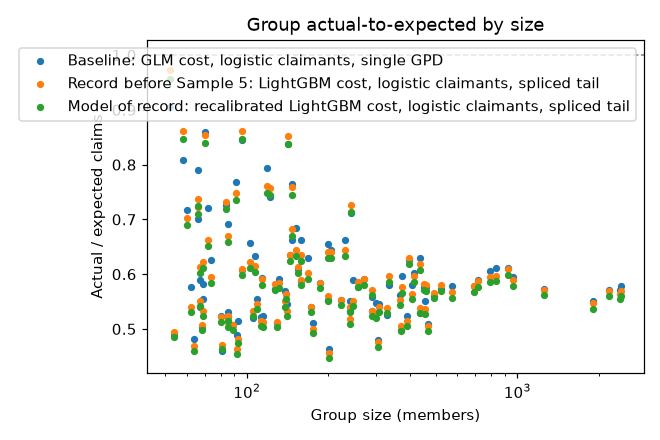
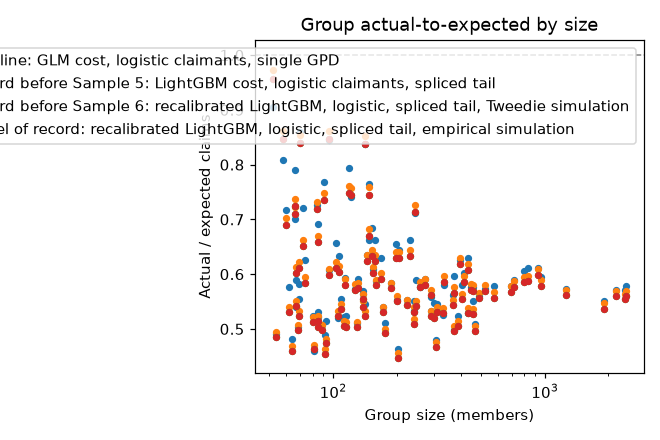
Score the aggregate test and update results, README and blog

diff --git a/docs/blog/posts/group-underwriting.md b/docs/blog/posts/group-underwriting.md
@@ -6,7 +6,7 @@ authors:
 categories:
   - Healthcare
   - Insurance pricing
-description: Pricing stop-loss for employer groups from member-level claims, tested on four independent synthetic Medicare populations against predictions written down first.
+description: Pricing stop-loss for employer groups from member-level claims, tested on five independent synthetic Medicare populations against predictions written down first.
 ---
 
 # Pricing stop-loss for employer groups from claims data
@@ -19,17 +19,17 @@ that cost sits in the tail?
 
 I built a pipeline that answers both from member-level medical and pharmacy claims, prices
 synthetic employer groups, and then checks the price against what the groups cost the
-following year. The first test missed on price level; three more rounds on new populations found
+following year. The first test missed on price level; four more rounds on new populations found
 why and settled the model of record.
 
 <!-- more -->
 
 !!! abstract "TL;DR"
-    - **Data:** CMS DE-SynPUF synthetic Medicare claims (inpatient, outpatient, professional and Part D), 2008–2010, four independent samples (Samples 2–5), cut into synthetic employer groups of 50–2,500 lives.
+    - **Data:** CMS DE-SynPUF synthetic Medicare claims (inpatient, outpatient, professional and Part D), 2008–2010, five independent samples (Samples 2–6), cut into synthetic employer groups of 50–2,500 lives.
     - **Method:** point-in-time features with claims runout, a Tweedie GLM baseline against Tweedie LightGBM for next-year cost, high-cost-claimant probabilities at $25k / $50k / $100k, a generalized Pareto tail, and Monte Carlo pricing of specific and aggregate stop-loss per group.
     - **Result:** on populations no model had seen, group claims came in at **0.995–1.00 of expected** across ~205 groups per sample. The final configuration hit **0.999 [0.990–1.007]** on the last holdout.
     - **What the first test got wrong:** the out-of-time year (2010) came in at 0.58 of expected because DE-SynPUF's 2010 claims are 36% thinner than 2009's, a data artifact no pricing method could foresee.
-    - **What changed along the way:** LightGBM replaced the GLM only after its gain replicated on a second unseen sample; a second Pareto segment above $100k fixed a 30% overstatement of far-tail losses; one level factor fixed LightGBM's 2% low bias.
+    - **What changed along the way:** LightGBM replaced the GLM only after its gain replicated on a second unseen sample; a second Pareto segment above $100k fixed a 30% overstatement of far-tail losses; one level factor fixed LightGBM's 2% low bias; resampling actual-to-predicted ratios fixed a simulated spread of group totals that was 1.3× too wide and had the aggregate layer priced 4.5× too high.
     - **Stack:** Python, Kedro, LightGBM, DuckDB and Snowflake, dbt (reconciled row for row with the Python features), MLflow, uv. Code: [github.com/RonCom/group-underwriting](https://github.com/RonCom/group-underwriting).
 
 !!! warning "Synthetic Medicare data, synthetic employers"
@@ -84,7 +84,7 @@ metrics and **groups** for group metrics, never rows.
 
 The same rule as in my [Medicare provider project](medicare-fwa.md): before each test, I committed
 predictions and adoption rules to the repository. A challenger replaces the frozen baseline only if
-its gain clears zero; every miss gets reported. Four rounds, four pre-registrations:
+its gain clears zero; every miss gets reported. Five rounds, five pre-registrations:
 
 | Round | Data | Predictions hit |
 |---|---|---|
@@ -92,6 +92,7 @@ its gain clears zero; every miss gets reported. Four rounds, four pre-registrati
 | 2. Follow-up | Sample 3 (new members), 2008 → 2009 | 10 of 12 |
 | 3. Re-test | Sample 4, 2008 → 2009 | 8 of 9 |
 | 4. Holdout | Sample 5, 2008 → 2009 | 6 of 7 |
+| 5. Aggregate layer | Sample 6, 2008 → 2009 | 5 of 5 |
 
 ## Round 1: ranking works, level misses
 
@@ -167,6 +168,30 @@ Pareto tail.
 The one miss: groups of 250–499 lives came in 2% below expected with every configuration. I
 don't know why yet.
 
+## Round 5: the aggregate layer
+
+Aggregate attachments were breached at or below the expected rate on Samples 3, 4 and 5 (pooled:
+4 observed against 7.6 expected). Breaches are too rare to test directly, so I tested the whole
+simulated distribution of each group's net claims instead. For each group, the PIT value is the
+share of its simulated net claims below its actual net claims. If the simulation has the right
+spread, PIT values are uniform across groups, with variance 1/12 = 0.083; a spread that's too wide
+pushes them toward 0.5 and the variance down.
+
+The Tweedie simulation gave PIT variances of 0.058–0.066 on the three seen samples: its spread was
+about 1.3× too wide, because its dispersion came from uncapped costs. The challenger draws each
+member's cost as predicted cost × an actual-to-predicted ratio resampled from already-seen members
+in the same tenth of predicted cost. I wrote down five predictions and ran both on Sample 6
+(72,216 new members, 206 groups):
+
+| Member-cost simulation | PIT variance | Mean squared z (target 1) | Expected aggregate cost PMPM |
+|---|---|---|---|
+| Tweedie | 0.060 [0.052–0.067] | 0.58 [0.48–0.71] | $0.109 |
+| Resampled ratios | 0.083 [0.072–0.091] | 0.95 [0.79–1.14] | $0.024 |
+
+All five predictions hit, and the resampled ratios replaced Tweedie. The aggregate layer's
+expected cost drops 78%: with a 125% corridor, a breach needs net claims 25% above expected, and
+the narrower distribution puts less probability there.
+
 ## Small groups have the widest loss-ratio swings
 
 A few large claimants move a 60-life group's loss ratio much more than a 2,000-life group's:
@@ -176,11 +201,6 @@ A few large claimants move a 60-life group's loss ratio much more than a 2,000-l
 The 50–99 band's interval is 2.3–3.5× as wide as the 1,000+ band's on Samples 3–5, and 5.5× as
 wide on Sample 2. A lower specific deductible caps how much of that swing the employer keeps, so
 the deductible here steps from $25k for 50–99 lives to $100k for 500+.
-
-Aggregate attachments were breached at or below the expected rate in all three complete-year runs
-(pooled: 4 observed against 7.6 expected, Poisson P(≤ 4) = 0.12). That's not significant, and the
-direction is the same each time. If it holds, the Tweedie simulation that spreads group totals is
-too wide and the aggregate layer is priced a little high.
 
 ## Explaining a group's price
 
@@ -218,5 +238,7 @@ cost, ahead of any single chronic condition.
   run-in / run-out contract terms.
 - **Paid dates are simulated,** so the runout and IBNR results test the chain-ladder method
   against lags I chose. The estimate missed its ±10% target (+11% and +21%).
+- **Independent groups.** The simulation draws members independently within a group, so it
+  can't represent correlated claims (an outbreak, a plant closure) that real employers have.
 - **2010 is unusable for levels** in DE-SynPUF, so the out-of-time test only checks ranking; the
   level tests are same-period tests on independent populations.

diff --git a/README.md b/README.md
@@ -6,12 +6,12 @@ resulting specific and aggregate stop-loss cost per group, then compares those p
 actually happened the following year. Built as Kedro pipelines on CMS DE-SynPUF claims, with a dbt
 feature mart reconciled row for row against the Python features.
 
-> **Status:** four pre-registered rounds on DE-SynPUF Samples 2–5 (scorecard:
-> [`docs/scorecard.md`](docs/scorecard.md)). Model of record: recalibrated LightGBM cost,
-> logistic claimant model, Pareto tail spliced at $100k. On Sample 5, which no model, tail or
-> calibration step had seen, group claims come in at 0.999 [0.990–1.007] of expected across 205
-> groups. The original out-of-time year, 2010, can't check price levels: DE-SynPUF's 2010 claims
-> are 30–40% thinner than 2009's.
+> **Status:** five pre-registered rounds on DE-SynPUF Samples 2–6 (scorecard:
+> [`docs/scorecard.md`](docs/scorecard.md)). Model of record: recalibrated LightGBM cost, logistic
+> claimant model, Pareto tail spliced at $100k, and group totals simulated by resampling
+> actual-to-predicted ratios. On samples no model had seen, group claims come in at 0.995–1.001 of
+> expected. The original out-of-time year, 2010, can't check price levels: DE-SynPUF's 2010
+> claims are 30–40% thinner than 2009's.
 
 ## Question
 Using only claims visible at a pricing date, can member-level models price specific and aggregate
@@ -170,6 +170,20 @@ Tables: [`docs/holdout/results.md`](docs/holdout/results.md).
   all three complete-year runs (pooled 4 observed vs 7.6 expected, Poisson P(≤ 4) = 0.12).
 - **Miss:** the 250–499 band runs 2% below expected (0.98 [0.963–0.994]) with every configuration.
 
+### Aggregate layer: the simulated spread (DE-SynPUF Sample 6)
+Aggregate breaches came in below expectation on Samples 3–5, so the simulation of group net
+claims became a pre-registered test on Sample 6 (72,216 members, 206 groups). 5 of 5 predictions
+hit. Tables: [`docs/aggtest/results.md`](docs/aggtest/results.md).
+
+| Member-cost simulation | PIT variance (uniform = 0.0833) | Mean squared z (target 1) | Breaches (expected) | Expected aggregate cost PMPM |
+|---|---|---|---|---|
+| Tweedie, dispersion from uncapped cost | 0.060 [0.052–0.067] | 0.58 [0.48–0.71] | 0 (3.1) | $0.109 |
+| **Resampled actual / predicted ratios (adopted)** | 0.083 [0.072–0.091] | 0.95 [0.79–1.14] | 0 (1.0) | $0.024 |
+
+PIT value: the share of a group's simulated net claims below its actual net claims; uniform PIT
+values mean the simulated distribution has the right spread. The Tweedie spread was about 1.3×
+too wide, which overpriced the aggregate layer about 4.5×. Group claims A/E is unchanged (1.001).
+
 The synthetic mode (generated data, used for CI) has its own results in
 [`docs/synthetic/results.md`](docs/synthetic/results.md); a full synthetic run takes ~45 s.
 
@@ -200,6 +214,10 @@ uv run kedro run --env retest --pipeline retest
 # Holdout: Sample 5 (needs the Sample 3 and 4 runs for the level factor and disjointness check)
 uv run python -m group_underwriting.download --sample 5 --dest data/sample5/01_raw
 uv run kedro run --env holdout --pipeline holdout
+
+# Aggregate-layer test: Sample 6 (pool of seen ratios from Samples 3-5)
+uv run python -m group_underwriting.download --sample 6 --dest data/sample6/01_raw
+uv run kedro run --env aggtest --pipeline aggtest
 
 uv run pytest
 ```
@@ -253,9 +271,9 @@ Output: [`docs/reconciliation_snowflake.md`](docs/reconciliation_snowflake.md). 
 
 ## Repo layout
 ```
-conf/            Kedro config: base (real data), synthetic, followup, retest, holdout, local (git-ignored)
+conf/            Kedro config: base (real data), synthetic, followup, retest, holdout, aggtest, local (git-ignored)
 src/             Kedro pipelines: ingest, features, models, tail, pricing, reporting, runout,
-                 synthetic, warehouse, followup, retest, holdout; metrics.py; download.py
+                 synthetic, warehouse, followup, retest, holdout, snowflake, aggtest; metrics.py; download.py
 dbt/             staging and feature-mart models (DuckDB, Snowflake target)
 docs/            decisions.md, preregistration.md, scorecard.md, results.md; synthetic/
 notebooks/       exploration only
@@ -269,4 +287,11 @@ tests/
 - [x] Wire the adopted models into the main pricing pipeline (`pricing_variants`)
 - [x] Pre-registered LightGBM level recalibration, tested on Sample 5
 - [x] Snowflake load, dbt build and Snowflake-vs-DuckDB reconciliation
+- [x] Pre-registered aggregate-layer simulation test on Sample 6; empirical ratios adopted
 - [x] Blog post draft for roncom.github.io (`docs/blog/posts/group-underwriting.md`; not yet published to the site)
+- [ ] Publish the blog post
+- [ ] Working-age population: rerun the frozen pipeline on Synthea members (CLAUDE.md fallback)
+- [ ] The 250–499 band runs 2–4% below expected (Sample 5, 2010 relative test); check whether group construction by state and county drives it
+- [ ] IBNR triangles by claim type (tests the inpatient-mix explanation for the IBNR miss)
+- [ ] Drop "distinct drugs" (duplicates "fills" in DE-SynPUF)
+- [ ] Manually triggered CI job for the Snowflake pipeline using repository secrets

diff --git a/docs/results.md b/docs/results.md
@@ -1,6 +1,6 @@
 # Results (real data)
 
-Generated 2026-10-05 by `kedro run`. Do not edit by hand.
+Generated 2026-10-06 by `kedro run`. Do not edit by hand.
 
 Training: 35,996 members, features 2008 -> cost 2009. Test: 32,833 different members in 101 synthetic groups, features 2009 -> cost 2010. Intervals are 95% bootstrap intervals that resample members (member metrics) or groups (group metrics).
 
@@ -106,12 +106,18 @@ Generalized Pareto above $25,000 on training members' 2009 cost: shape ξ = 0.10
 | Record before Sample 5: LightGBM cost, logistic claimants, spliced tail | 500-999 | 8 | 6,018 | 0.870 | 0.513 [0.506–0.520] | 0.59 [0.58–0.60] | 0.21 [0.00–0.49] | 0 (0.0) |
 | Record before Sample 5: LightGBM cost, logistic claimants, spliced tail | 1000-2500 | 5 | 10,162 | 0.870 | 0.491 [0.483–0.496] | 0.56 [0.56–0.57] | 0.00 [0.00–0.00] | 0 (0.0) |
 | Record before Sample 5: LightGBM cost, logistic claimants, spliced tail | All | 101 | 32,833 | 0.869 | 0.501 [0.494–0.510] | 0.58 [0.57–0.59] | 0.33 [0.24–0.42] | 0 (1.6) |
-| Model of record: recalibrated LightGBM cost, logistic claimants, spliced tail | 50-99 | 28 | 2,095 | 0.868 | 0.528 [0.493–0.572] | 0.61 [0.57–0.66] | 0.53 [0.35–0.74] | 0 (1.0) |
-| Model of record: recalibrated LightGBM cost, logistic claimants, spliced tail | 100-249 | 37 | 5,950 | 0.869 | 0.510 [0.488–0.535] | 0.59 [0.56–0.62] | 0.27 [0.13–0.47] | 0 (0.6) |
-| Model of record: recalibrated LightGBM cost, logistic claimants, spliced tail | 250-499 | 23 | 8,608 | 0.870 | 0.476 [0.463–0.490] | 0.55 [0.53–0.56] | 0.25 [0.17–0.34] | 0 (0.0) |
-| Model of record: recalibrated LightGBM cost, logistic claimants, spliced tail | 500-999 | 8 | 6,018 | 0.870 | 0.504 [0.497–0.511] | 0.58 [0.57–0.59] | 0.21 [0.00–0.49] | 0 (0.0) |
-| Model of record: recalibrated LightGBM cost, logistic claimants, spliced tail | 1000-2500 | 5 | 10,162 | 0.870 | 0.482 [0.475–0.487] | 0.55 [0.55–0.56] | 0.00 [0.00–0.00] | 0 (0.0) |
-| Model of record: recalibrated LightGBM cost, logistic claimants, spliced tail | All | 101 | 32,833 | 0.869 | 0.492 [0.485–0.501] | 0.57 [0.56–0.58] | 0.33 [0.24–0.42] | 0 (1.6) |
+| Record before Sample 6: recalibrated LightGBM, logistic, spliced tail, Tweedie simulation | 50-99 | 28 | 2,095 | 0.868 | 0.528 [0.493–0.572] | 0.61 [0.57–0.66] | 0.53 [0.35–0.74] | 0 (1.0) |
+| Record before Sample 6: recalibrated LightGBM, logistic, spliced tail, Tweedie simulation | 100-249 | 37 | 5,950 | 0.869 | 0.510 [0.488–0.535] | 0.59 [0.56–0.62] | 0.27 [0.13–0.47] | 0 (0.6) |
+| Record before Sample 6: recalibrated LightGBM, logistic, spliced tail, Tweedie simulation | 250-499 | 23 | 8,608 | 0.870 | 0.476 [0.463–0.490] | 0.55 [0.53–0.56] | 0.25 [0.17–0.34] | 0 (0.0) |
+| Record before Sample 6: recalibrated LightGBM, logistic, spliced tail, Tweedie simulation | 500-999 | 8 | 6,018 | 0.870 | 0.504 [0.497–0.511] | 0.58 [0.57–0.59] | 0.21 [0.00–0.49] | 0 (0.0) |
+| Record before Sample 6: recalibrated LightGBM, logistic, spliced tail, Tweedie simulation | 1000-2500 | 5 | 10,162 | 0.870 | 0.482 [0.475–0.487] | 0.55 [0.55–0.56] | 0.00 [0.00–0.00] | 0 (0.0) |
+| Record before Sample 6: recalibrated LightGBM, logistic, spliced tail, Tweedie simulation | All | 101 | 32,833 | 0.869 | 0.492 [0.485–0.501] | 0.57 [0.56–0.58] | 0.33 [0.24–0.42] | 0 (1.6) |
+| Model of record: recalibrated LightGBM, logistic, spliced tail, empirical simulation | 50-99 | 28 | 2,095 | 0.869 | 0.529 [0.493–0.573] | 0.61 [0.57–0.66] | 0.53 [0.35–0.74] | 0 (0.3) |
+| Model of record: recalibrated LightGBM, logistic, spliced tail, empirical simulation | 100-249 | 37 | 5,950 | 0.869 | 0.510 [0.489–0.536] | 0.59 [0.56–0.62] | 0.27 [0.13–0.47] | 0 (0.2) |
+| Model of record: recalibrated LightGBM, logistic, spliced tail, empirical simulation | 250-499 | 23 | 8,608 | 0.870 | 0.476 [0.463–0.490] | 0.55 [0.53–0.56] | 0.25 [0.17–0.34] | 0 (0.0) |
+| Model of record: recalibrated LightGBM, logistic, spliced tail, empirical simulation | 500-999 | 8 | 6,018 | 0.870 | 0.504 [0.497–0.511] | 0.58 [0.57–0.59] | 0.21 [0.00–0.49] | 0 (0.0) |
+| Model of record: recalibrated LightGBM, logistic, spliced tail, empirical simulation | 1000-2500 | 5 | 10,162 | 0.870 | 0.482 [0.475–0.487] | 0.55 [0.55–0.56] | 0.00 [0.00–0.00] | 0 (0.0) |
+| Model of record: recalibrated LightGBM, logistic, spliced tail, empirical simulation | All | 101 | 32,833 | 0.870 | 0.493 [0.485–0.501] | 0.57 [0.56–0.58] | 0.33 [0.24–0.42] | 0 (0.4) |
 
 ![Group A/E](figures/group_actual_to_expected.png)
 

diff --git a/docs/synthetic/results.md b/docs/synthetic/results.md
@@ -1,6 +1,6 @@
 # Results (synthetic data)
 
-Generated 2026-10-05 by `kedro run`. Do not edit by hand.
+Generated 2026-10-06 by `kedro run`. Do not edit by hand.
 
 Training: 11,129 members, features 2008 -> cost 2009. Test: 11,104 different members in 44 synthetic groups, features 2009 -> cost 2010. Intervals are 95% bootstrap intervals that resample members (member metrics) or groups (group metrics).
 
@@ -106,12 +106,18 @@ Generalized Pareto above $25,000 on training members' 2009 cost: shape ξ = 0.24
 | Record before Sample 5: LightGBM cost, logistic claimants, spliced tail | 500-999 | 2 | 1,856 | 0.869 | 0.794 [0.782–0.808] | 0.91 [0.90–0.93] | 0.23 [0.03–0.47] | 0 (0.0) |
 | Record before Sample 5: LightGBM cost, logistic claimants, spliced tail | 1000-2500 | 1 | 2,416 | 0.870 | 0.770 [0.770–0.770] | 0.89 [0.89–0.89] | 0.50 [0.50–0.50] | 0 (0.0) |
 | Record before Sample 5: LightGBM cost, logistic claimants, spliced tail | All | 44 | 11,104 | 0.864 | 0.803 [0.778–0.837] | 0.93 [0.90–0.97] | 0.80 [0.60–1.03] | 0 (5.2) |
-| Model of record: recalibrated LightGBM cost, logistic claimants, spliced tail | 50-99 | 13 | 888 | 0.845 | 0.863 [0.735–1.001] | 1.02 [0.87–1.19] | 1.22 [0.59–2.16] | 0 (2.5) |
-| Model of record: recalibrated LightGBM cost, logistic claimants, spliced tail | 100-249 | 21 | 3,384 | 0.859 | 0.776 [0.736–0.821] | 0.90 [0.86–0.96] | 0.72 [0.51–0.95] | 0 (2.4) |
-| Model of record: recalibrated LightGBM cost, logistic claimants, spliced tail | 250-499 | 7 | 2,560 | 0.868 | 0.854 [0.805–0.906] | 0.98 [0.93–1.04] | 0.89 [0.53–1.20] | 0 (0.2) |
-| Model of record: recalibrated LightGBM cost, logistic claimants, spliced tail | 500-999 | 2 | 1,856 | 0.869 | 0.794 [0.782–0.808] | 0.91 [0.90–0.93] | 0.23 [0.03–0.47] | 0 (0.0) |
-| Model of record: recalibrated LightGBM cost, logistic claimants, spliced tail | 1000-2500 | 1 | 2,416 | 0.870 | 0.770 [0.770–0.770] | 0.89 [0.89–0.89] | 0.50 [0.50–0.50] | 0 (0.0) |
-| Model of record: recalibrated LightGBM cost, logistic claimants, spliced tail | All | 44 | 11,104 | 0.864 | 0.803 [0.778–0.837] | 0.93 [0.90–0.97] | 0.80 [0.60–1.03] | 0 (5.2) |
+| Record before Sample 6: recalibrated LightGBM, logistic, spliced tail, Tweedie simulation | 50-99 | 13 | 888 | 0.845 | 0.863 [0.735–1.001] | 1.02 [0.87–1.19] | 1.22 [0.59–2.16] | 0 (2.5) |
+| Record before Sample 6: recalibrated LightGBM, logistic, spliced tail, Tweedie simulation | 100-249 | 21 | 3,384 | 0.859 | 0.776 [0.736–0.821] | 0.90 [0.86–0.96] | 0.72 [0.51–0.95] | 0 (2.4) |
+| Record before Sample 6: recalibrated LightGBM, logistic, spliced tail, Tweedie simulation | 250-499 | 7 | 2,560 | 0.868 | 0.854 [0.805–0.906] | 0.98 [0.93–1.04] | 0.89 [0.53–1.20] | 0 (0.2) |
+| Record before Sample 6: recalibrated LightGBM, logistic, spliced tail, Tweedie simulation | 500-999 | 2 | 1,856 | 0.869 | 0.794 [0.782–0.808] | 0.91 [0.90–0.93] | 0.23 [0.03–0.47] | 0 (0.0) |
+| Record before Sample 6: recalibrated LightGBM, logistic, spliced tail, Tweedie simulation | 1000-2500 | 1 | 2,416 | 0.870 | 0.770 [0.770–0.770] | 0.89 [0.89–0.89] | 0.50 [0.50–0.50] | 0 (0.0) |
+| Record before Sample 6: recalibrated LightGBM, logistic, spliced tail, Tweedie simulation | All | 44 | 11,104 | 0.864 | 0.803 [0.778–0.837] | 0.93 [0.90–0.97] | 0.80 [0.60–1.03] | 0 (5.2) |
+| Model of record: recalibrated LightGBM, logistic, spliced tail, empirical simulation | 50-99 | 13 | 888 | 0.845 | 0.863 [0.735–1.001] | 1.02 [0.87–1.19] | 1.22 [0.59–2.16] | 0 (2.5) |
+| Model of record: recalibrated LightGBM, logistic, spliced tail, empirical simulation | 100-249 | 21 | 3,384 | 0.859 | 0.776 [0.736–0.821] | 0.90 [0.86–0.96] | 0.72 [0.51–0.95] | 0 (2.4) |
+| Model of record: recalibrated LightGBM, logistic, spliced tail, empirical simulation | 250-499 | 7 | 2,560 | 0.868 | 0.854 [0.805–0.906] | 0.98 [0.93–1.04] | 0.89 [0.53–1.20] | 0 (0.2) |
+| Model of record: recalibrated LightGBM, logistic, spliced tail, empirical simulation | 500-999 | 2 | 1,856 | 0.869 | 0.794 [0.782–0.808] | 0.91 [0.90–0.93] | 0.23 [0.03–0.47] | 0 (0.0) |
+| Model of record: recalibrated LightGBM, logistic, spliced tail, empirical simulation | 1000-2500 | 1 | 2,416 | 0.870 | 0.770 [0.770–0.770] | 0.89 [0.89–0.89] | 0.50 [0.50–0.50] | 0 (0.0) |
+| Model of record: recalibrated LightGBM, logistic, spliced tail, empirical simulation | All | 44 | 11,104 | 0.864 | 0.803 [0.778–0.837] | 0.93 [0.90–0.97] | 0.80 [0.60–1.03] | 0 (5.2) |
 
 ![Group A/E](figures/group_actual_to_expected.png)
 

diff --git a/docs/scorecard.md b/docs/scorecard.md
@@ -142,3 +142,26 @@ members, none in Samples 2–4; 205 groups), 2008 features → 2009 cost. Full t
   Poisson P(≤ 4) = 0.12). Not significant, but the direction is consistent: the Tweedie
   simulation may be too wide (post hoc).
 - The 250–499 band runs 2% below expected with every variant; the cause isn't established.
+
+# Aggregate-layer simulation (pre-registered in `docs/preregistration_aggregate.md`)
+
+Run 2026-10-06: DE-SynPUF Sample 6 (72,216 members, none in Samples 2–5; 206 groups), 2008 features
+→ 2009 cost, model of record with two ways of simulating member costs. Full tables:
+[`aggtest/results.md`](aggtest/results.md). **5 of 5 predictions hit.**
+
+| # | Prediction | Result | Verdict |
+|---|---|---|---|
+| A1 | Tweedie PIT variance 0.050–0.072, interval below 0.0833 | 0.0599 [0.0521–0.0674] | Hit |
+| A2 | Empirical PIT variance 0.074–0.093, interval covers 0.0833 | 0.0825 [0.0717–0.0914] | Hit |
+| A3 | Mean squared z: Tweedie interval below 1, empirical covers 1 | 0.58 [0.48–0.71]; 0.95 [0.79–1.14] | Hit |
+| A4 | Empirical breaches within 95% Poisson range | 0 observed, 1.0 expected (range 0–3) | Hit |
+| A5 | Empirical expected aggregate cost below 40% of Tweedie's | $0.024 vs $0.109 PMPM (22%) | Hit |
+| Rule | Adopt empirical simulation if A2 and empirical A3 hold | Both hold | **Empirical simulation adopted** |
+
+**Reading.**
+- The Tweedie simulation's spread of group net claims is about 1.3× too wide (mean squared z 0.58
+  means actual deviations are √0.58 ≈ 0.76 of the simulated standard deviation). Resampling
+  actual-to-predicted ratios from seen members gets the spread right on a sample it never saw.
+- The aggregate layer's expected cost falls by about 78% under the adopted simulation. With a
+  125% corridor, a breach needs a group's net claims 25% above expected, which the narrower
+  distribution makes rarer: expected breaches drop from 3.1 to 1.0 on Sample 6.

diff --git a/docs/decisions.md b/docs/decisions.md
@@ -152,3 +152,12 @@ fixes were needed for Snowflake, both applied to the shared models: a CTE named 
 Snowflake) became `cohort`, and a `SELECT r.member_id, ..., c.*` that duplicated `member_id` now
 lists the claim columns. The DuckDB build was rerun after the fixes and still matches the Kedro
 features; Snowflake matches DuckDB on every row and column.
+
+## 2026-10-06: aggregate-layer simulation, empirical ratios adopted
+
+Pre-registered in `docs/preregistration_aggregate.md` after a post-hoc diagnostic on Samples 3–5
+(`scripts/aggregate_diagnostic.py`), run on Sample 6 in the `aggtest` environment. All five
+predictions hit. The model of record now simulates member costs by resampling actual / predicted
+ratios from Samples 3–5 within tenths of predicted cost (`residual_pool`). `pricing_variants`
+keeps the earlier record as `record_v2` (Tweedie simulation). With no pool files present (fresh
+clone, synthetic mode), empirical variants fall back to Tweedie with a warning.
